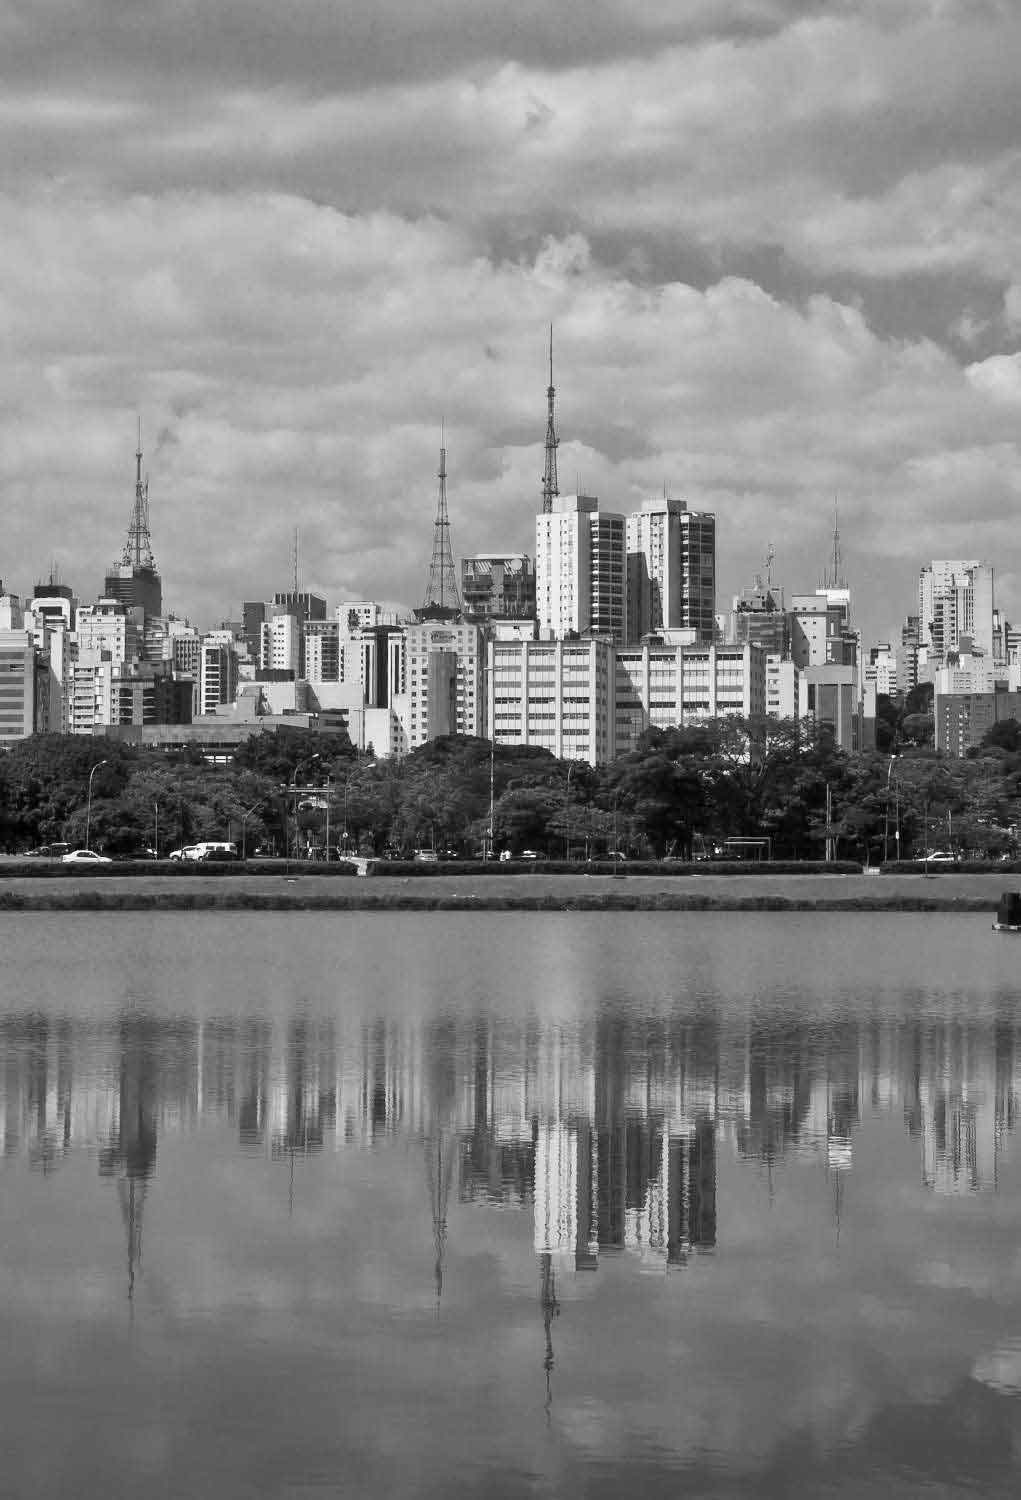
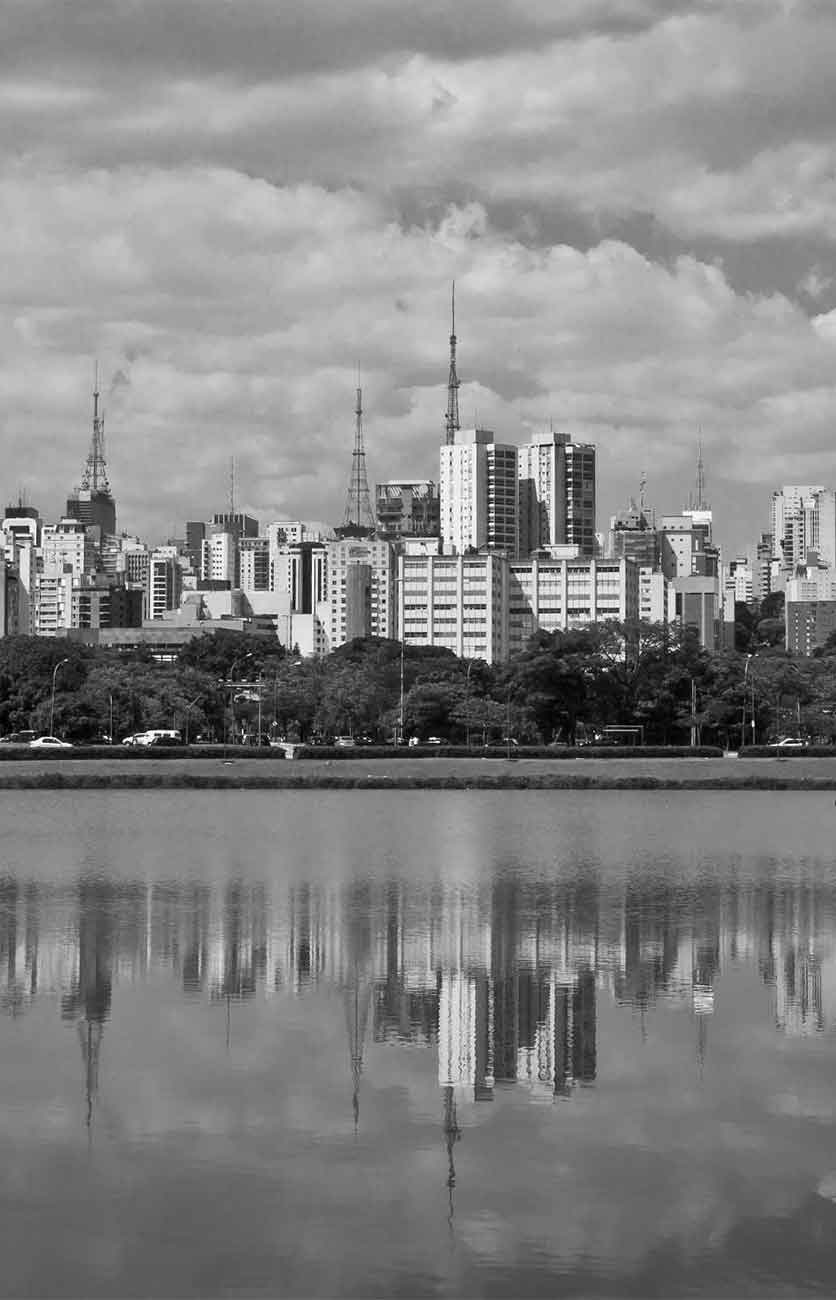
Compact background image

diff --git a/css/default.css b/css/default.css
@@ -27,7 +27,7 @@ header {
     display: table;
     width: 100%;
 }
-@media (orientation: portrait) {
+@media (max-width: 830px) and (orientation: portrait) {
     header {
 		background-image: url(../images/background-cropped.jpg);
 	}
